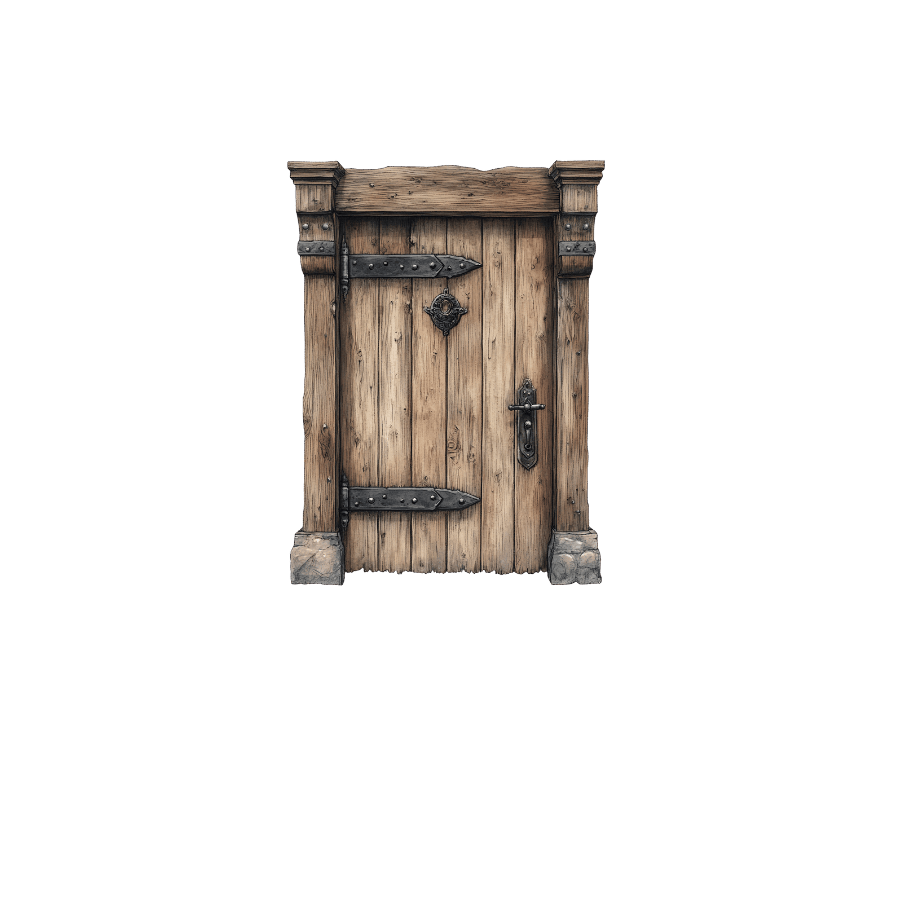
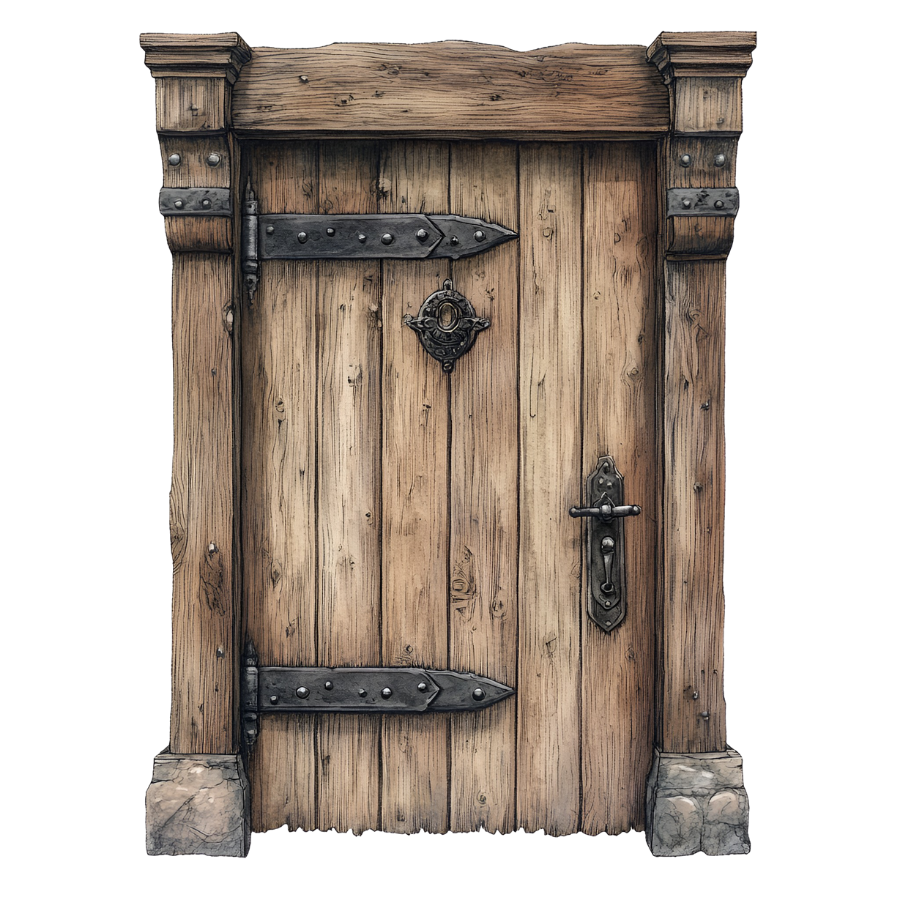
doors

diff --git a/data/doors.js b/data/doors.js
@@ -1,33 +1,33 @@
 window.DOORS = [
   { "day": 1,  "title": "Day 1 Activity",  "image": "assets/placeholders/Door_1.png",  "modalImage": "assets/placeholders/Day1_Halloween_Maze.jpg",              "link": "https://www.canva.com/design/DAGycYtmGO4/0zxV4oErgEDIvjIo3FHejg/edit?utm_content=DAGycYtmGO4&utm_campaign=designshare&utm_medium=link2&utm_source=sharebutton" },
   { "day": 2,  "title": "Day 2 Activity",  "image": "assets/placeholders/Door_2.png",  "modalImage": "assets/placeholders/Day2_Find_The_Hidden_Word.jpg",        "link": "https://www.canva.com/design/DAGu18LMyWY/UDzdyeb2vfhBpoUFJy8kRg/edit?utm_content=DAGu18LMyWY&utm_campaign=designshare&utm_medium=link2&utm_source=sharebutton" },
-  { "day": 3,  "title": "Day 3 Activity",  "image": "assets/placeholders/Door_3.jpg",  "modalImage": "assets/placeholders/Day3_Halloween_Crossword.jpg",         "link": "https://www.canva.com/design/DAGwGuNwAAU/tQ1U9frKCxuVcvgKGFWKBQ/edit?utm_content=DAGwGuNwAAU&utm_campaign=designshare&utm_medium=link2&utm_source=sharebutton" },
-  { "day": 4,  "title": "Day 4 Activity",  "image": "assets/placeholders/Door_4.jpg",  "modalImage": "assets/placeholders/Day4_Halloween_Coloring_Contest.jpg",  "link": "https://www.canva.com/design/DAGwhQQIGCY/YjhzNv34Ic0MN4-vWbG6Tw/edit?utm_content=DAGwhQQIGCY&utm_campaign=designshare&utm_medium=link2&utm_source=sharebutton" },
-  { "day": 5,  "title": "Day 5 Activity",  "image": "assets/placeholders/Door_5.jpg",  "modalImage": "assets/placeholders/Day5_Halloween_Word_Scramble.jpg",      "link": "https://www.canva.com/design/DAGzqtnDqXE/aw0euDqRQQEHxQ6rhSaGGw/edit?utm_content=DAGzqtnDqXE&utm_campaign=designshare&utm_medium=link2&utm_source=sharebutton" },
-  { "day": 6,  "title": "Day 6 Activity",  "image": "assets/placeholders/Door_6.jpg",  "modalImage": "assets/placeholders/Day6_The_Pumpkin_with_No_Nose.jpg",    "link": "https://www.canva.com/design/DAGzpKjP_1E/bEpQX-F_-_ptb8ZlOvIGCQ/edit?utm_content=DAGzpKjP_1E&utm_campaign=designshare&utm_medium=link2&utm_source=sharebutton" },
-  { "day": 7,  "title": "Day 7 Activity",  "image": "assets/placeholders/Door_7.jpg",  "modalImage": "assets/placeholders/Day7_Ghost_Origami.jpg",               "link": "https://www.canva.com/design/DAGziAq5bww/Mcf2kpQMwhfeOvamWQCkwA/edit?utm_content=DAGziAq5bww&utm_campaign=designshare&utm_medium=link2&utm_source=sharebutton" },
-  { "day": 8,  "title": "Day 8 Activity",  "image": "assets/placeholders/Door_8.jpg",  "modalImage": "assets/placeholders/Day8_Welcome_to_the_Pumpkin_Patch.jpg","link": "https://www.canva.com/design/DAGzSTAeSqg/iNTgTSO-yDGEqNlOYLa3pw/edit?utm_content=DAGzSTAeSqg&utm_campaign=designshare&utm_medium=link2&utm_source=sharebutton" },
-  { "day": 9,  "title": "Day 9 Activity",  "image": "assets/placeholders/Door_9.jpg",  "modalImage": "assets/placeholders/Day9_Halloween_Scattegories.jpg",       "link": "https://www.canva.com/design/DAGycS1mgPs/oS77kmR7HftY2vgUA1tehw/edit?utm_content=DAGycS1mgPs&utm_campaign=designshare&utm_medium=link2&utm_source=sharebutton" },
-  { "day": 10, "title": "Day 10 Activity", "image": "assets/placeholders/Door_10.jpg", "modalImage": "assets/placeholders/Day10_Halloween_Word_Search.jpg",       "link": "https://www.canva.com/design/DAGzpIZ-SMA/zddsDMx0eRatk5lVdMUrIg/edit?utm_content=DAGzpIZ-SMA&utm_campaign=designshare&utm_medium=link2&utm_source=sharebutton" },
-  { "day": 11, "title": "Day 11 Activity", "image": "assets/placeholders/Door_11.jpg", "modalImage": "assets/placeholders/Day11_Pixel_Art.jpg",                   "link": "https://www.canva.com/design/DAGzltRmoRQ/lePRBFn9HPbQVWbv7UJCUQ/edit?utm_content=DAGzltRmoRQ&utm_campaign=designshare&utm_medium=link2&utm_source=sharebutton" },
-  { "day": 12, "title": "Day 12 Activity", "image": "assets/placeholders/Door_12.jpg", "modalImage": "assets/placeholders/Day12_True_or_False.jpg",               "link": "https://www.canva.com/design/DAGwhhZEi8A/2BdcKOZAk8uhGKoFp71cLQ/edit?utm_content=DAGwhhZEi8A&utm_campaign=designshare&utm_medium=link2&utm_source=sharebutton" },
-  { "day": 13, "title": "Day 13 Activity", "image": "assets/placeholders/Door_13.jpg", "modalImage": "assets/placeholders/Day13_Halloween_Mad_Libs.jpg",          "link": "https://www.canva.com/design/DAGwhvBlA0o/KRIeI1ebPsALZh81WUblDg/edit?utm_content=DAGwhvBlA0o&utm_campaign=designshare&utm_medium=link2&utm_source=sharebutton" },
-  { "day": 14, "title": "Day 14 Activity", "image": "assets/placeholders/Door_14.jpg", "modalImage": "assets/placeholders/Day14_Halloween_Trivia.jpg",            "link": "https://www.canva.com/design/DAGzxO_KxFU/j-dYI_yHEZtnglCUf8ijFQ/edit?utm_content=DAGzxO_KxFU&utm_campaign=designshare&utm_medium=link2&utm_source=sharebutton" },
-  { "day": 15, "title": "Day 15 Activity", "image": "assets/placeholders/Door_15.jpg", "modalImage": "assets/placeholders/Day15_The_Mystery_of_Old_Richmond_Road.jpg", "link": "https://www.canva.com/design/DAGz2ViHA1Q/bswU1AjURBysWP8I4U3lgw/edit?utm_content=DAGz2ViHA1Q&utm_campaign=designshare&utm_medium=link2&utm_source=sharebutton" },
-  { "day": 16, "title": "Day 16 Activity", "image": "assets/placeholders/Door_16.jpg", "modalImage": "assets/placeholders/Day16_Code_Breaker.jpg",                "link": "https://www.canva.com/design/DAGxAL0hJYg/MYbfvDk8q4gaUAua8ScF1g/edit?utm_content=DAGxAL0hJYg&utm_campaign=designshare&utm_medium=link2&utm_source=sharebutton" },
-  { "day": 17, "title": "Day 17 Activity", "image": "assets/placeholders/Door_17.jpg", "modalImage": "assets/placeholders/Day17_Connect_the_Dots.jpg",            "link": "https://www.canva.com/design/DAGyQ7Aaz4o/JKuFj0f_ipgLPHJOtTB9Dw/edit?utm_content=DAGyQ7Aaz4o&utm_campaign=designshare&utm_medium=link2&utm_source=sharebutton" },
-  { "day": 18, "title": "Day 18 Activity", "image": "assets/placeholders/Door_18.jpg", "modalImage": "assets/placeholders/Day18_Have_You_Ever.jpg",               "link": "https://www.canva.com/design/DAGz7SeSqlE/WN8tbkGOT9KMyfQxdLZmVQ/edit?utm_content=DAGz7SeSqlE&utm_campaign=designshare&utm_medium=link2&utm_source=sharebutton" },
-  { "day": 19, "title": "Day 19 Activity", "image": "assets/placeholders/Door_19.jpg", "modalImage": "assets/placeholders/Day19_Lets_Fly.jpg",                    "link": "https://www.canva.com/design/DAGzPypS4FI/LR_MhHLVYYEkOmbAqqmrsA/edit?utm_content=DAGzPypS4FI&utm_campaign=designshare&utm_medium=link2&utm_source=sharebutton" },
-  { "day": 20, "title": "Day 20 Activity", "image": "assets/placeholders/Door_20.jpg", "modalImage": "assets/placeholders/Day20_Lets_Get_Mummied.jpg",            "link": "https://www.canva.com/design/DAGzfBmorEI/JVoz9JUNSQlCDNGAb8QNvQ/edit?utm_content=DAGzfBmorEI&utm_campaign=designshare&utm_medium=link2&utm_source=sharebutton" },
-  { "day": 21, "title": "Day 21 Activity", "image": "assets/placeholders/Door_21.jpg", "modalImage": "assets/placeholders/Day21_Pumpkin_Carving.jpg",             "link": "https://www.canva.com/design/DAGyI4HwR5M/w0YBg8Kim2Cs8ngYegC1Mg/edit?utm_content=DAGyI4HwR5M&utm_campaign=designshare&utm_medium=link2&utm_source=sharebutton" },
-  { "day": 22, "title": "Day 22 Activity", "image": "assets/placeholders/Door_22.jpg", "modalImage": "assets/placeholders/Day22_Riddle_Mansion.jpg",              "link": "#replace-with-your-link-for-day-22" },
-  { "day": 23, "title": "Day 23 Activity", "image": "assets/placeholders/Door_23.jpg", "modalImage": "assets/placeholders/Day23_Seek_and_Find.jpg",                 "link": "https://www.canva.com/design/DAGwhsp5Q_A/CIfSHo0pQQI8NZgdS5qmPw/edit?utm_content=DAGwhsp5Q_A&utm_campaign=designshare&utm_medium=link2&utm_source=sharebutton" },
-  { "day": 24, "title": "Day 24 Activity", "image": "assets/placeholders/Door_24.jpg", "modalImage": "assets/placeholders/Day24_Which_Witch_is_Which.jpg",        "link": "https://www.canva.com/design/DAGyjPkMzdI/mHT6aHbUyL71D6vsmD_J6w/edit?utm_content=DAGyjPkMzdI&utm_campaign=designshare&utm_medium=link2&utm_source=sharebutton" },
-  { "day": 25, "title": "Day 25 Activity", "image": "assets/placeholders/Door_25.jpg", "modalImage": "assets/placeholders/Day25_Adopt_A_Monster.jpg",             "link": "https://www.canva.com/design/DAGxAZZyeyw/amqo-H1ZmrMmkjScY6gltA/edit?utm_content=DAGxAZZyeyw&utm_campaign=designshare&utm_medium=link2&utm_source=sharebutton" },
-  { "day": 26, "title": "Day 26 Activity", "image": "assets/placeholders/Door_26.jpg", "modalImage": "assets/placeholders/Day26_Halloween_Slime.jpg",             "link": "https://www.canva.com/design/DAGyB2Ns7vo/XQZ37q8mFFcqkgG3IrxjtA/edit?utm_content=DAGyB2Ns7vo&utm_campaign=designshare&utm_medium=link2&utm_source=sharebutton" },
-  { "day": 27, "title": "Day 27 Activity", "image": "assets/placeholders/Door_27.jpg", "modalImage": "assets/placeholders/Day27_Spot_12_Differences.jpg",         "link": "https://www.canva.com/design/DAGzXnsdPEA/VdRAF7eX-HhZm2RnepnPcQ/edit?utm_content=DAGzXnsdPEA&utm_campaign=designshare&utm_medium=link2&utm_source=sharebutton" },
-  { "day": 28, "title": "Day 28 Activity", "image": "assets/placeholders/Door_28.jpg", "modalImage": "assets/placeholders/Day28_Wizards_Brew.jpg",                "link": "https://www.canva.com/design/DAGxOaIwOcs/ll2nl5UuNqQ0Ct_N0TZgKQ/edit?utm_content=DAGxOaIwOcs&utm_campaign=designshare&utm_medium=link2&utm_source=sharebutton" },
-  { "day": 29, "title": "Day 29 Activity", "image": "assets/placeholders/Door_29.jpg", "modalImage": "assets/placeholders/Day29_Draw_It.jpg",                     "link": "https://www.canva.com/design/DAGx7Xv7RuU/Ygsw7xm4UwfoqGLGW1bfrA/edit?utm_content=DAGx7Xv7RuU&utm_campaign=designshare&utm_medium=link2&utm_source=sharebutton" },
-  { "day": 30, "title": "Day 30 Activity", "image": "assets/placeholders/Door_30.jpg", "modalImage": "assets/placeholders/Day30_Halloween_Alphabet.jpg",          "link": "https://www.canva.com/design/DAGziH6JnmE/mbH7xlBaL2qhME0v-tcsmw/edit?utm_content=DAGziH6JnmE&utm_campaign=designshare&utm_medium=link2&utm_source=sharebutton" },
-  { "day": 31, "title": "Day 31 Activity", "image": "assets/placeholders/Door_31.jpg", "modalImage": "assets/placeholders/Day31_Halloween_Hunt.jpg",              "link": "https://www.canva.com/design/DAGzlKEV2QU/P-m85_G7_N9l5tR9NqzZaA/edit?utm_content=DAGzlKEV2QU&utm_campaign=designshare&utm_medium=link2&utm_source=sharebutton" }
+  { "day": 3,  "title": "Day 3 Activity",  "image": "assets/placeholders/Door_3.png",  "modalImage": "assets/placeholders/Day3_Halloween_Crossword.jpg",         "link": "https://www.canva.com/design/DAGwGuNwAAU/tQ1U9frKCxuVcvgKGFWKBQ/edit?utm_content=DAGwGuNwAAU&utm_campaign=designshare&utm_medium=link2&utm_source=sharebutton" },
+  { "day": 4,  "title": "Day 4 Activity",  "image": "assets/placeholders/Door_4.png",  "modalImage": "assets/placeholders/Day4_Halloween_Coloring_Contest.jpg",  "link": "https://www.canva.com/design/DAGwhQQIGCY/YjhzNv34Ic0MN4-vWbG6Tw/edit?utm_content=DAGwhQQIGCY&utm_campaign=designshare&utm_medium=link2&utm_source=sharebutton" },
+  { "day": 5,  "title": "Day 5 Activity",  "image": "assets/placeholders/Door_5.png",  "modalImage": "assets/placeholders/Day5_Halloween_Word_Scramble.jpg",      "link": "https://www.canva.com/design/DAGzqtnDqXE/aw0euDqRQQEHxQ6rhSaGGw/edit?utm_content=DAGzqtnDqXE&utm_campaign=designshare&utm_medium=link2&utm_source=sharebutton" },
+  { "day": 6,  "title": "Day 6 Activity",  "image": "assets/placeholders/Door_6.png",  "modalImage": "assets/placeholders/Day6_The_Pumpkin_with_No_Nose.jpg",    "link": "https://www.canva.com/design/DAGzpKjP_1E/bEpQX-F_-_ptb8ZlOvIGCQ/edit?utm_content=DAGzpKjP_1E&utm_campaign=designshare&utm_medium=link2&utm_source=sharebutton" },
+  { "day": 7,  "title": "Day 7 Activity",  "image": "assets/placeholders/Door_7.png",  "modalImage": "assets/placeholders/Day7_Ghost_Origami.jpg",               "link": "https://www.canva.com/design/DAGziAq5bww/Mcf2kpQMwhfeOvamWQCkwA/edit?utm_content=DAGziAq5bww&utm_campaign=designshare&utm_medium=link2&utm_source=sharebutton" },
+  { "day": 8,  "title": "Day 8 Activity",  "image": "assets/placeholders/Door_8.png",  "modalImage": "assets/placeholders/Day8_Welcome_to_the_Pumpkin_Patch.jpg","link": "https://www.canva.com/design/DAGzSTAeSqg/iNTgTSO-yDGEqNlOYLa3pw/edit?utm_content=DAGzSTAeSqg&utm_campaign=designshare&utm_medium=link2&utm_source=sharebutton" },
+  { "day": 9,  "title": "Day 9 Activity",  "image": "assets/placeholders/Door_9.png",  "modalImage": "assets/placeholders/Day9_Halloween_Scattegories.jpg",       "link": "https://www.canva.com/design/DAGycS1mgPs/oS77kmR7HftY2vgUA1tehw/edit?utm_content=DAGycS1mgPs&utm_campaign=designshare&utm_medium=link2&utm_source=sharebutton" },
+  { "day": 10, "title": "Day 10 Activity", "image": "assets/placeholders/Door_10.png", "modalImage": "assets/placeholders/Day10_Halloween_Word_Search.jpg",       "link": "https://www.canva.com/design/DAGzpIZ-SMA/zddsDMx0eRatk5lVdMUrIg/edit?utm_content=DAGzpIZ-SMA&utm_campaign=designshare&utm_medium=link2&utm_source=sharebutton" },
+  { "day": 11, "title": "Day 11 Activity", "image": "assets/placeholders/Door_11.png", "modalImage": "assets/placeholders/Day11_Pixel_Art.jpg",                   "link": "https://www.canva.com/design/DAGzltRmoRQ/lePRBFn9HPbQVWbv7UJCUQ/edit?utm_content=DAGzltRmoRQ&utm_campaign=designshare&utm_medium=link2&utm_source=sharebutton" },
+  { "day": 12, "title": "Day 12 Activity", "image": "assets/placeholders/Door_12.png", "modalImage": "assets/placeholders/Day12_True_or_False.jpg",               "link": "https://www.canva.com/design/DAGwhhZEi8A/2BdcKOZAk8uhGKoFp71cLQ/edit?utm_content=DAGwhhZEi8A&utm_campaign=designshare&utm_medium=link2&utm_source=sharebutton" },
+  { "day": 13, "title": "Day 13 Activity", "image": "assets/placeholders/Door_13.png", "modalImage": "assets/placeholders/Day13_Halloween_Mad_Libs.jpg",          "link": "https://www.canva.com/design/DAGwhvBlA0o/KRIeI1ebPsALZh81WUblDg/edit?utm_content=DAGwhvBlA0o&utm_campaign=designshare&utm_medium=link2&utm_source=sharebutton" },
+  { "day": 14, "title": "Day 14 Activity", "image": "assets/placeholders/Door_14.png", "modalImage": "assets/placeholders/Day14_Halloween_Trivia.jpg",            "link": "https://www.canva.com/design/DAGzxO_KxFU/j-dYI_yHEZtnglCUf8ijFQ/edit?utm_content=DAGzxO_KxFU&utm_campaign=designshare&utm_medium=link2&utm_source=sharebutton" },
+  { "day": 15, "title": "Day 15 Activity", "image": "assets/placeholders/Door_15.png", "modalImage": "assets/placeholders/Day15_The_Mystery_of_Old_Richmond_Road.jpg", "link": "https://www.canva.com/design/DAGz2ViHA1Q/bswU1AjURBysWP8I4U3lgw/edit?utm_content=DAGz2ViHA1Q&utm_campaign=designshare&utm_medium=link2&utm_source=sharebutton" },
+  { "day": 16, "title": "Day 16 Activity", "image": "assets/placeholders/Door_16.png", "modalImage": "assets/placeholders/Day16_Code_Breaker.jpg",                "link": "https://www.canva.com/design/DAGxAL0hJYg/MYbfvDk8q4gaUAua8ScF1g/edit?utm_content=DAGxAL0hJYg&utm_campaign=designshare&utm_medium=link2&utm_source=sharebutton" },
+  { "day": 17, "title": "Day 17 Activity", "image": "assets/placeholders/Door_17.png", "modalImage": "assets/placeholders/Day17_Connect_the_Dots.jpg",            "link": "https://www.canva.com/design/DAGyQ7Aaz4o/JKuFj0f_ipgLPHJOtTB9Dw/edit?utm_content=DAGyQ7Aaz4o&utm_campaign=designshare&utm_medium=link2&utm_source=sharebutton" },
+  { "day": 18, "title": "Day 18 Activity", "image": "assets/placeholders/Door_18.png", "modalImage": "assets/placeholders/Day18_Have_You_Ever.jpg",               "link": "https://www.canva.com/design/DAGz7SeSqlE/WN8tbkGOT9KMyfQxdLZmVQ/edit?utm_content=DAGz7SeSqlE&utm_campaign=designshare&utm_medium=link2&utm_source=sharebutton" },
+  { "day": 19, "title": "Day 19 Activity", "image": "assets/placeholders/Door_19.png", "modalImage": "assets/placeholders/Day19_Lets_Fly.jpg",                    "link": "https://www.canva.com/design/DAGzPypS4FI/LR_MhHLVYYEkOmbAqqmrsA/edit?utm_content=DAGzPypS4FI&utm_campaign=designshare&utm_medium=link2&utm_source=sharebutton" },
+  { "day": 20, "title": "Day 20 Activity", "image": "assets/placeholders/Door_20.png", "modalImage": "assets/placeholders/Day20_Lets_Get_Mummied.jpg",            "link": "https://www.canva.com/design/DAGzfBmorEI/JVoz9JUNSQlCDNGAb8QNvQ/edit?utm_content=DAGzfBmorEI&utm_campaign=designshare&utm_medium=link2&utm_source=sharebutton" },
+  { "day": 21, "title": "Day 21 Activity", "image": "assets/placeholders/Door_21.png", "modalImage": "assets/placeholders/Day21_Pumpkin_Carving.jpg",             "link": "https://www.canva.com/design/DAGyI4HwR5M/w0YBg8Kim2Cs8ngYegC1Mg/edit?utm_content=DAGyI4HwR5M&utm_campaign=designshare&utm_medium=link2&utm_source=sharebutton" },
+  { "day": 22, "title": "Day 22 Activity", "image": "assets/placeholders/Door_22.png", "modalImage": "assets/placeholders/Day22_Riddle_Mansion.jpg",              "link": "#replace-with-your-link-for-day-22" },
+  { "day": 23, "title": "Day 23 Activity", "image": "assets/placeholders/Door_23.png", "modalImage": "assets/placeholders/Day23_Seek_and_Find.jpg",                 "link": "https://www.canva.com/design/DAGwhsp5Q_A/CIfSHo0pQQI8NZgdS5qmPw/edit?utm_content=DAGwhsp5Q_A&utm_campaign=designshare&utm_medium=link2&utm_source=sharebutton" },
+  { "day": 24, "title": "Day 24 Activity", "image": "assets/placeholders/Door_24.png", "modalImage": "assets/placeholders/Day24_Which_Witch_is_Which.jpg",        "link": "https://www.canva.com/design/DAGyjPkMzdI/mHT6aHbUyL71D6vsmD_J6w/edit?utm_content=DAGyjPkMzdI&utm_campaign=designshare&utm_medium=link2&utm_source=sharebutton" },
+  { "day": 25, "title": "Day 25 Activity", "image": "assets/placeholders/Door_25.png", "modalImage": "assets/placeholders/Day25_Adopt_A_Monster.jpg",             "link": "https://www.canva.com/design/DAGxAZZyeyw/amqo-H1ZmrMmkjScY6gltA/edit?utm_content=DAGxAZZyeyw&utm_campaign=designshare&utm_medium=link2&utm_source=sharebutton" },
+  { "day": 26, "title": "Day 26 Activity", "image": "assets/placeholders/Door_26.png", "modalImage": "assets/placeholders/Day26_Halloween_Slime.jpg",             "link": "https://www.canva.com/design/DAGyB2Ns7vo/XQZ37q8mFFcqkgG3IrxjtA/edit?utm_content=DAGyB2Ns7vo&utm_campaign=designshare&utm_medium=link2&utm_source=sharebutton" },
+  { "day": 27, "title": "Day 27 Activity", "image": "assets/placeholders/Door_27.png", "modalImage": "assets/placeholders/Day27_Spot_12_Differences.jpg",         "link": "https://www.canva.com/design/DAGzXnsdPEA/VdRAF7eX-HhZm2RnepnPcQ/edit?utm_content=DAGzXnsdPEA&utm_campaign=designshare&utm_medium=link2&utm_source=sharebutton" },
+  { "day": 28, "title": "Day 28 Activity", "image": "assets/placeholders/Door_28.png", "modalImage": "assets/placeholders/Day28_Wizards_Brew.jpg",                "link": "https://www.canva.com/design/DAGxOaIwOcs/ll2nl5UuNqQ0Ct_N0TZgKQ/edit?utm_content=DAGxOaIwOcs&utm_campaign=designshare&utm_medium=link2&utm_source=sharebutton" },
+  { "day": 29, "title": "Day 29 Activity", "image": "assets/placeholders/Door_29.png", "modalImage": "assets/placeholders/Day29_Draw_It.jpg",                     "link": "https://www.canva.com/design/DAGx7Xv7RuU/Ygsw7xm4UwfoqGLGW1bfrA/edit?utm_content=DAGx7Xv7RuU&utm_campaign=designshare&utm_medium=link2&utm_source=sharebutton" },
+  { "day": 30, "title": "Day 30 Activity", "image": "assets/placeholders/Door_30.png", "modalImage": "assets/placeholders/Day30_Halloween_Alphabet.jpg",          "link": "https://www.canva.com/design/DAGziH6JnmE/mbH7xlBaL2qhME0v-tcsmw/edit?utm_content=DAGziH6JnmE&utm_campaign=designshare&utm_medium=link2&utm_source=sharebutton" },
+  { "day": 31, "title": "Day 31 Activity", "image": "assets/placeholders/Door_31.png", "modalImage": "assets/placeholders/Day31_Halloween_Hunt.jpg",              "link": "https://www.canva.com/design/DAGzlKEV2QU/P-m85_G7_N9l5tR9NqzZaA/edit?utm_content=DAGzlKEV2QU&utm_campaign=designshare&utm_medium=link2&utm_source=sharebutton" }
 ];
